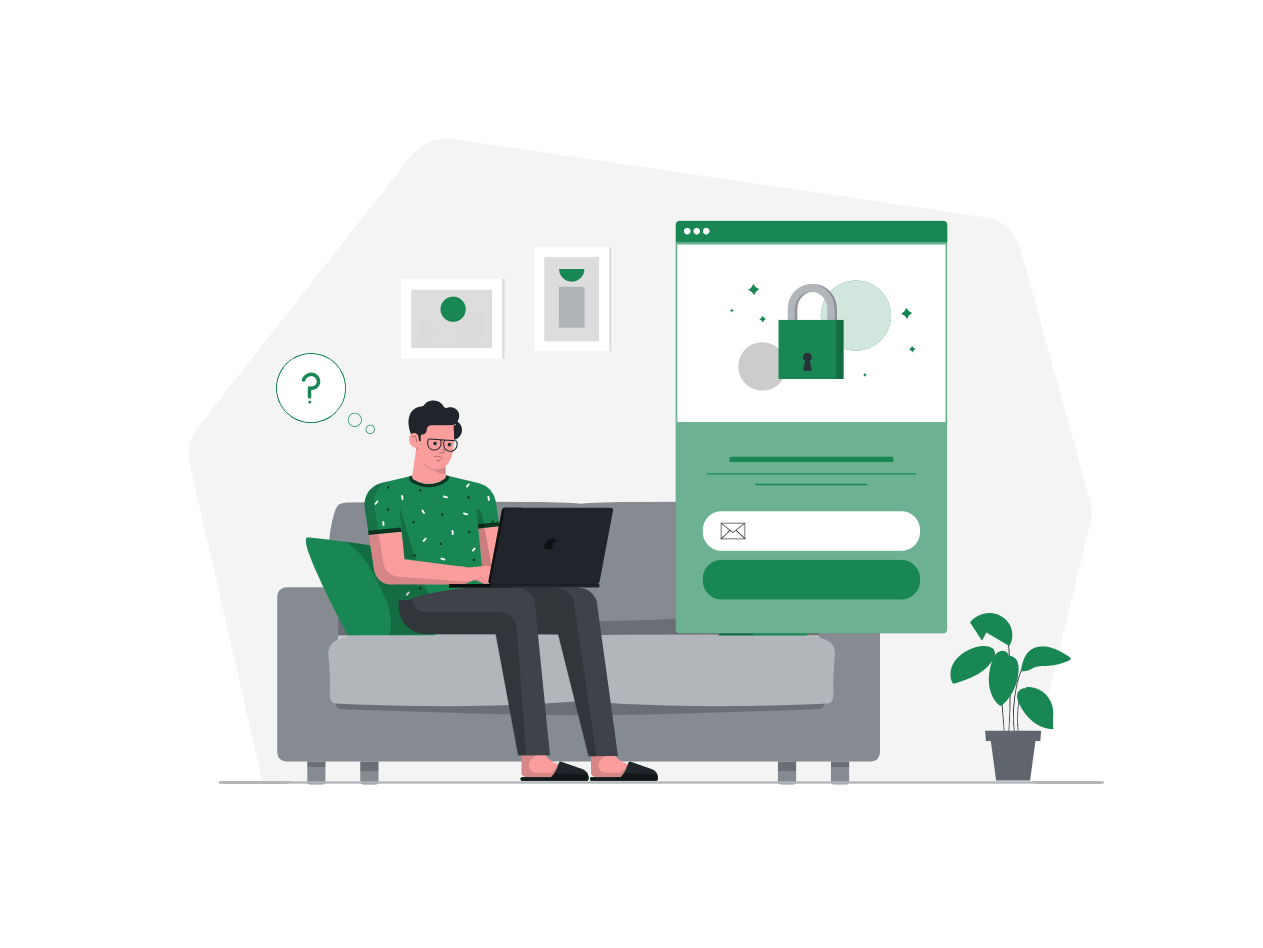
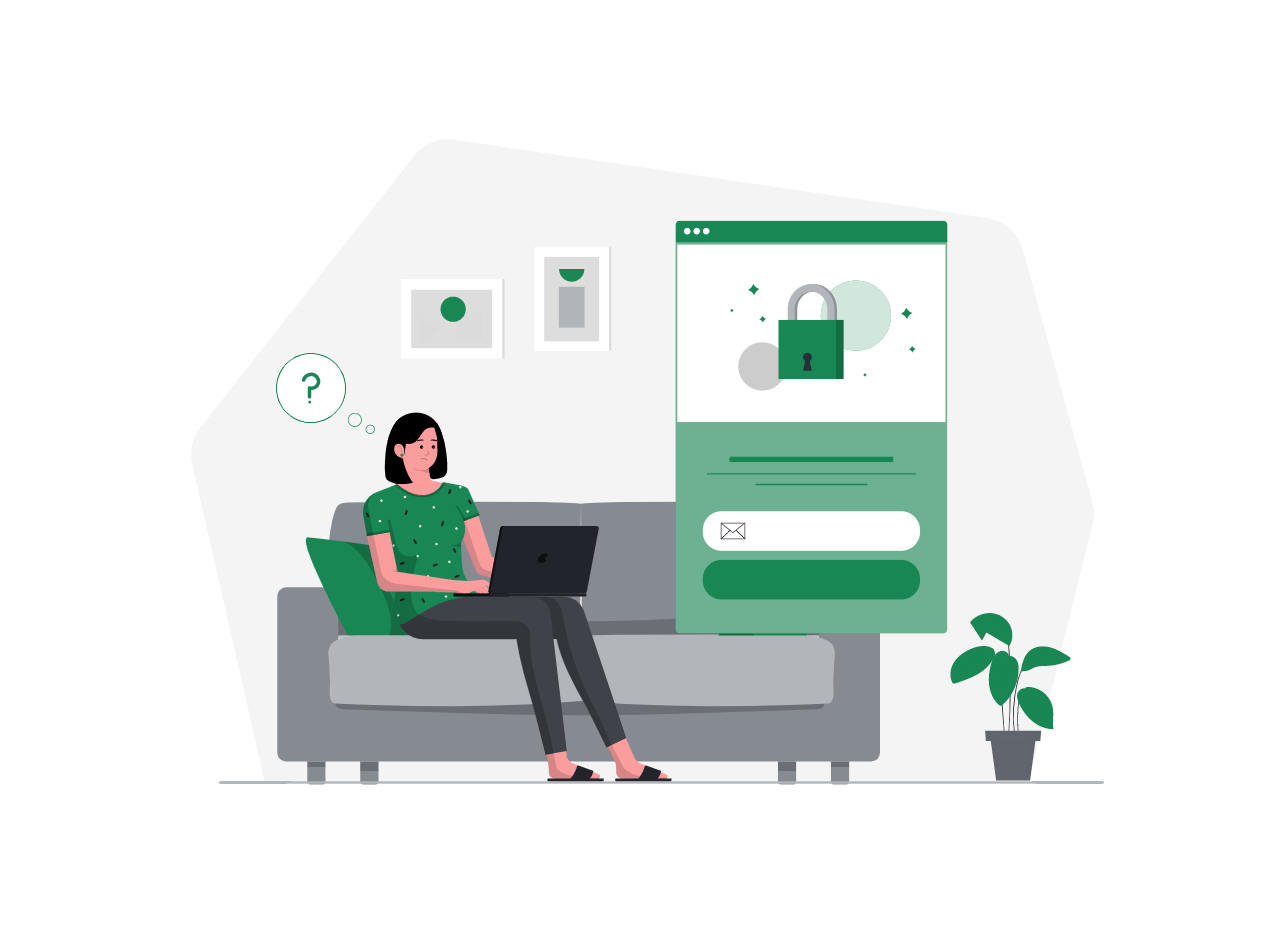
Login desin

Changed region(s): [[0.2779, 0.4283, 0.5249, 0.8259]]

diff --git a/main_app/templates/login.html b/main_app/templates/login.html
@@ -11,30 +11,31 @@
  <body>
    {% block content %} 
 
-    <section id="bgLanding" class=" text-light p-5 p-lg-0 pt-lg-5 text-center text-sm-start">
+    <section id="bgLanding" class=" text-light text-center text-sm-start">
 		<div class="">
 			<div class="d-sm-flex align-items-center justify-content-between">
 				<div>
-                    <img src="{% static 'images/heros.gif' %}" alt="My image">
+                    <img src="{% static 'images/login.png' %}" style="width: 100%" alt="My image">
 				</div> 
-               
-                <form>
-                    <div class="form-group">
-                      <label for="exampleInputEmail1">Email address</label>
-                      <input type="email" class="form-control" id="exampleInputEmail1" aria-describedby="emailHelp" placeholder="Enter email">
-                      <small id="emailHelp" class="form-text text-muted">We'll never share your email with anyone else.</small>
-                    </div>
-                    <div class="form-group">
-                      <label for="exampleInputPassword1">Password</label>
-                      <input type="password" class="form-control" id="exampleInputPassword1" placeholder="Password">
-                    </div>
-                    <div class="form-group form-check">
-                      <input type="checkbox" class="form-check-input" id="exampleCheck1">
-                      <label class="form-check-label" for="exampleCheck1">Check me out</label>
-                    </div>
-                    <button id="login-btn" type="submit" class="btn btn-success btn-md btn-block">Login</button>
-                    <p class="text-dark">Not register yet? <span class="text-success">Create an Account</span></p>
-                  </form>
+              
+        <form class="w-50" id="form" style="margin-right: 15%;">
+          <h5 class="text-muted text-sm">Login to continue</h5>
+          <div class="mb-1">
+            <label for="exampleInputEmail1" class="form-label text-muted">Email address</label>
+            <input type="email" class="form-control" id="exampleInputEmail1" aria-describedby="emailHelp">
+            
+          </div>
+          <div class="mb-3">
+            <label for="exampleInputPassword1" class="form-label text-muted">Password</label>
+            <input type="password" class="form-control" id="exampleInputPassword1">
+          </div>
+          <div class="mb-3 form-check">
+            <input type="checkbox" class="form-check-input" id="exampleCheck1">
+            <label class="form-check-label text-muted" for="exampleCheck1">Remember</label>
+          </div>
+          <button type="submit" class="btn btn-success" style="width: 100%;">Login</button>
+        </form>
+        
 			</div>
 		
 		</div>

diff --git a/main_app/templates/base.html b/main_app/templates/base.html
@@ -20,7 +20,7 @@
     <header class="bg-light">
         <nav class=" container navbar navbar-expand-lg bg-light">
             <div class="container-fluid">
-              <a id="logo-brand" class="navbar-brand bi bi-box-seam " href="#" style="color: #198754; font-size: 35px;">
+              <a id="logo-brand" class="navbar-brand bi bi-box-seam " href="#" style="color: #198754; font-size: 30px;">
                 <a id="brand-name" >SHOPPA</a>
             </a>
               <button class="navbar-toggler" type="button" data-bs-toggle="collapse" data-bs-target="#navbarSupportedContent" aria-controls="navbarSupportedContent" aria-expanded="false" aria-label="Toggle navigation">
@@ -30,7 +30,7 @@
                
                 <ul class="nav1 navbar-nav ms-auto ">
 					<div class="row mx-md-n5">
-						<li class="  col px-md-6"> <a href="/login" class='nav-link border border-success rounded text-dark text-center' style="width: 80px; margin-top: 2%;">Log In</a> </li>
+						<li id="login" class="  col px-md-6"> <a href="/login" class='nav-link border border-success rounded text-dark text-center' style="width: 80px; margin-top: 2%;">Log In</a> </li>
 						
 						<li class="  col px-md-6"> <a href="/signup" class=' nav-link text-white btn btn-success md-5 ' style="width: 80px;margin-left: auto; margin-top: 2%;">Register </a> </li>
 					</div>
@@ -41,7 +41,7 @@
     </header>
     <main class="container">{% block content %} {% endblock %}</main>
 
-    <footer class=" text-center">All Rights Reserved, &copy; 2021 Inventory Management System</footer>
+    <footer class="text-light text-center bg-success">All Rights Reserved, &copy; 2022 Inventory Management System</footer>
 
   </body>
 </html>

diff --git a/main_app/templates/home.html b/main_app/templates/home.html
@@ -24,8 +24,7 @@
 					
 				</div> 
                
-                <img class=" npx img-fluid w-50 d-none d-sm-block "  src="{% static 'hero.gif' %}" alt= "" >
-                <img src="{% static 'images/heros.gif' %}" alt="My image">
+                <img src="{% static 'images/heros.gif' %}" style="width: 55%;" alt="My image">
 			</div>
 		
 		</div>

diff --git a/main_app/static/css/styles.css b/main_app/static/css/styles.css
@@ -32,3 +32,16 @@ border: 1px solid white;
 
 
 }
+
+#form {
+    border: 1px solid black;
+}
+
+button{
+    padding: 14px 40px;
+}
+
+li#login:hover {
+    color: white;
+    background-color:#198754 ;
+}
